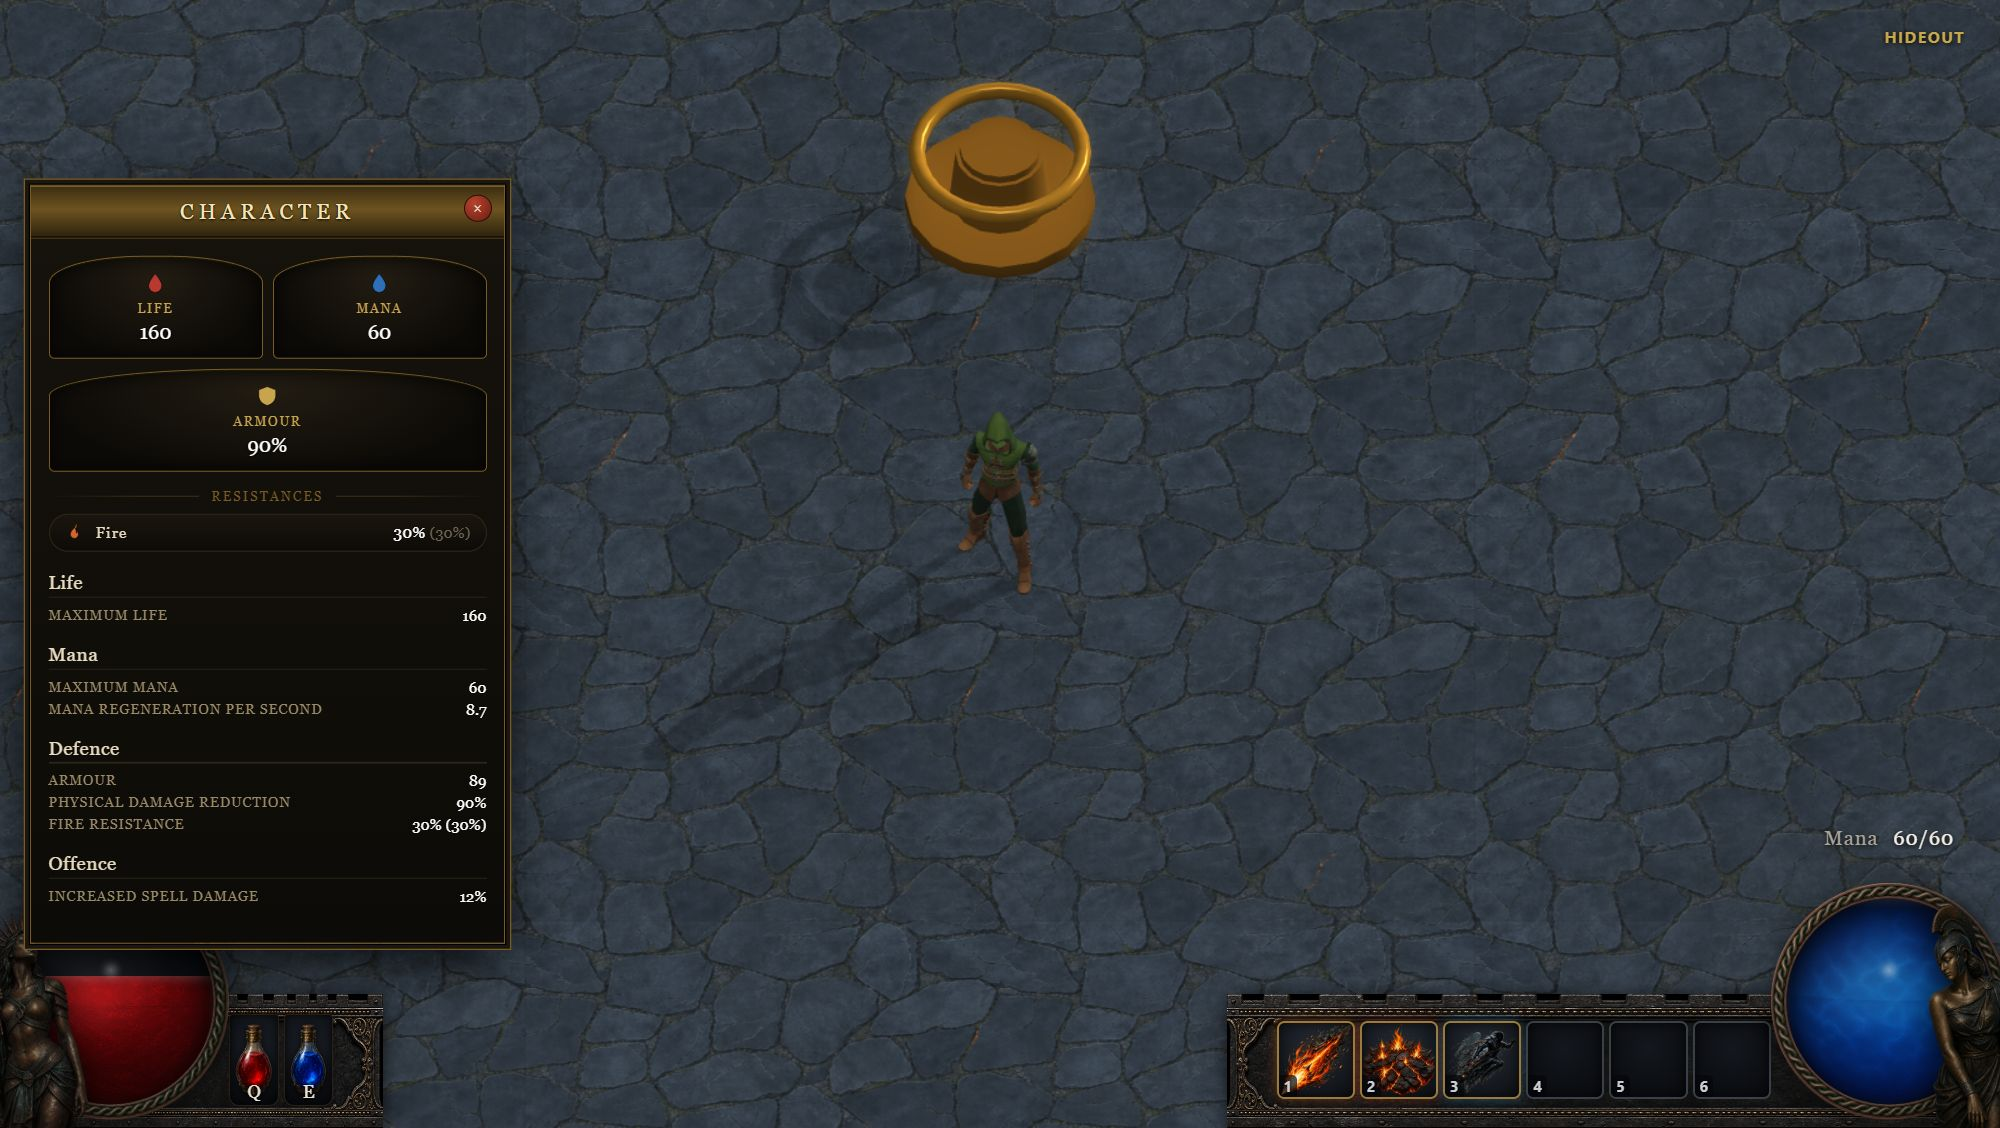
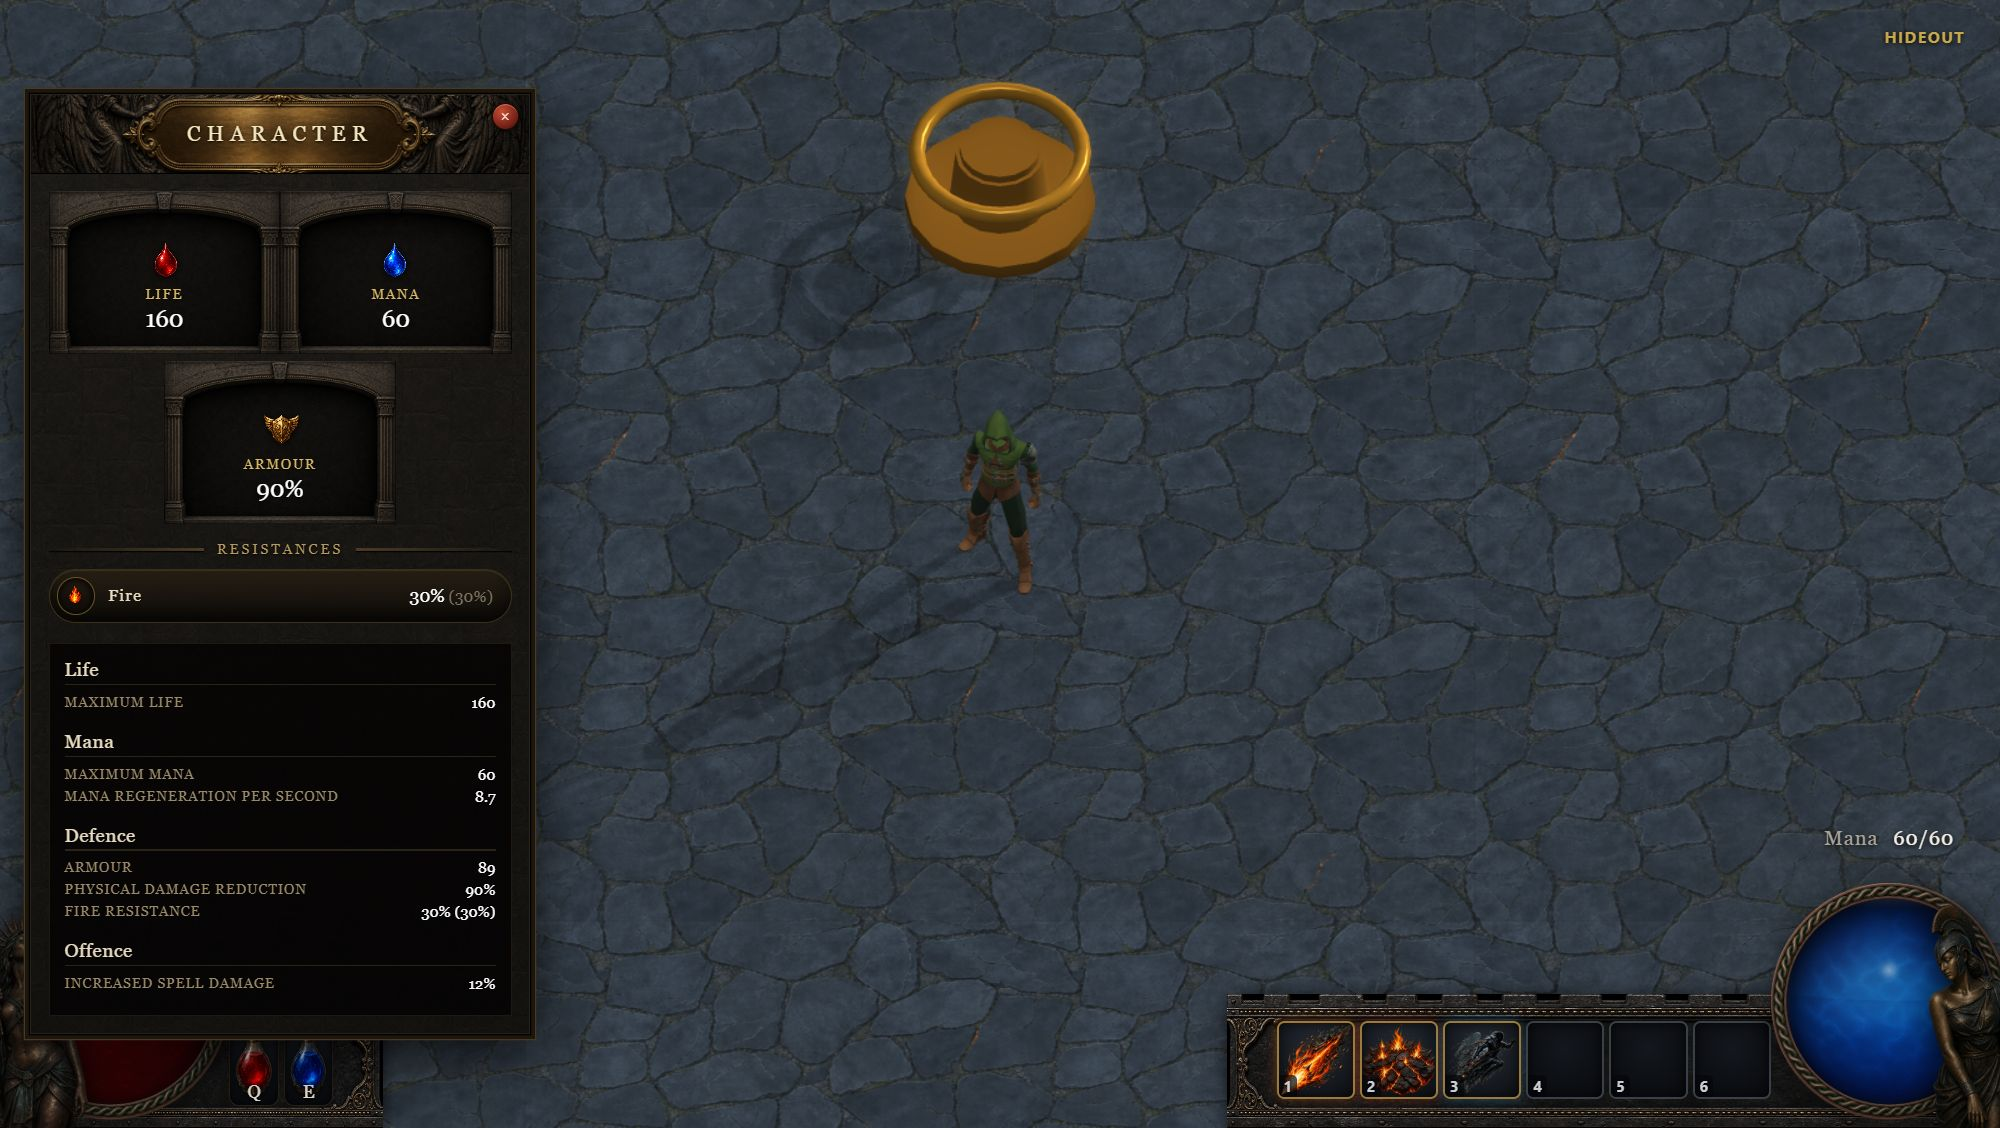
feat(hud): dress the character sheet in generated stone and gold
The sheet had the reference's layout but not its substance: a CSS
gradient stack standing in for carved stone, inline SVG glyphs standing
in for painted icons. Almost all of the weight in
poe2-screenshots/character-stats.png comes from that carving, so the
approximation read flat next to it.

Four generated assets under public/textures/ui: a header band with
bas-relief and an empty gold cartouche (the title stays live text so it
renders crisp), a seamless dark stone tile for the panel body, a wide
shallow arch niche, and one 2x2 sheet holding the life, mana, armour
and fire icons.

Niches in a band now abut so their pilasters read as one carved plate
instead of floating tiles, the stone overlay lightened so the texture
survives behind the text, and the panel's scrollbar is hidden since the
reference has no counterpart for it.

The first niche render was a tall square arch and is dropped rather than
kept: it is superseded, unused, and public/ ships everything in it.

Changed region(s): [[0.0, 0.0621, 0.279, 0.9619], [0.186, 0.3723, 0.217, 0.4344], [0.062, 0.4034, 0.093, 0.4344]]

diff --git a/apps/web/src/hud/CharacterPanel.tsx b/apps/web/src/hud/CharacterPanel.tsx
@@ -1,11 +1,13 @@
 import React from "react";
 import type { Snapshot } from "@exiled/protocol";
 import { RES_CAP } from "@exiled/rules";
-import { SERIF, GOLD, GOLD_DIM, PARCHMENT } from "./InventoryPanel";
+import { SERIF, GOLD_DIM, PARCHMENT } from "./InventoryPanel";
 
-// PoE2's character sheet (C), matched to poe2-screenshots/character-stats.png:
-// a gold cartouche header, arched stone niches for the resource and defence
-// totals, a resistance pill band, then a scrolling label/value detail list.
+// PoE2's character sheet (C), matched to poe2-screenshots/character-stats.png.
+// The stone, the carved header band with its gold cartouche, the arch niches
+// and the stat icons are generated art under /textures/ui/char_*.png rather
+// than CSS approximations, because the reference's weight comes almost entirely
+// from that carving and no gradient stack was going to stand in for it.
 //
 // The reference's identity row (portrait, "Level 80 Invoker", league) and its
 // Strength/Dexterity/Intelligence plate are left out, as are the Energy Shield,
@@ -17,30 +19,58 @@ import { SERIF, GOLD, GOLD_DIM, PARCHMENT } from "./InventoryPanel";
 // sheet and onto skill tooltips, but we have no skill tooltip yet, so a wand's
 // spell damage would otherwise be invisible everywhere.
 
-const PANEL_W = 380;
-const STONE = "linear-gradient(180deg,#16130d 0%,#0d0b07 100%)";
+const PANEL_W = 400;
+/** char_niche_v2.png is 320x224; a niche keeps that ratio or the arch shears. */
+const NICHE_W = (PANEL_W - 28) / 2;
+const NICHE_H = Math.round((NICHE_W * 224) / 320);
+/** char_header_v1.png is 1024x160, and the band has to keep that ratio or the relief shears. */
+const HEADER_H = Math.round((PANEL_W * 160) / 1024);
 
-/** Arched niche interior: recessed, warm, lit slightly from above like the carved stone in the shot. */
-const NICHE: React.CSSProperties = {
-  flex: 1,
-  display: "flex",
-  flexDirection: "column",
-  alignItems: "center",
-  gap: 4,
-  padding: "10px 4px 12px",
-  background: "radial-gradient(ellipse at 50% 20%, #221c12 0%, #0c0a07 75%)",
-  border: `1px solid ${GOLD_DIM}`,
-  // Round the top corners hard and the bottom barely, which reads as an arch.
-  borderRadius: "44% 44% 4px 4px / 26% 26% 4px 4px",
-  boxShadow: "inset 0 0 14px rgba(0,0,0,0.8), inset 0 1px 0 rgba(200,164,77,0.10)",
-};
+/**
+ * The four stat icons ship as one 2x2 sheet, so a quadrant is picked by moving a
+ * 200%-scaled background rather than by loading four files.
+ */
+const ICON_QUADRANT = { life: "0% 0%", mana: "100% 0%", armour: "0% 100%", fire: "100% 100%" } as const;
 
+function Icon({ of, size = 38 }: { of: keyof typeof ICON_QUADRANT; size?: number }) {
+  return (
+    <span
+      aria-hidden="true"
+      style={{
+        width: size, height: size, flex: "none",
+        backgroundImage: "url(/textures/ui/char_icons_v1.png)",
+        backgroundSize: "200% 200%",
+        backgroundPosition: ICON_QUADRANT[of],
+        filter: "drop-shadow(0 1px 3px rgba(0,0,0,0.9))",
+      }}
+    />
+  );
+}
+
+/**
+ * One arched niche. The art's recess does not fill its frame, so the label and
+ * value are inset by the fractions of char_niche_v1.png that the carved stone
+ * occupies — percentages, so the niche can be resized without re-measuring.
+ */
 function Niche({ id, label, value, icon }: { id: string; label: string; value: string; icon: React.ReactNode }) {
   return (
-    <div data-testid={`char-stat-${id}`} style={NICHE}>
-      <div style={{ height: 22, display: "flex", alignItems: "center" }}>{icon}</div>
-      <span style={{ color: GOLD, fontSize: 10, letterSpacing: 1.6, textTransform: "uppercase" }}>{label}</span>
-      <span style={{ color: "#fff", fontSize: 16, textShadow: "0 1px 3px #000" }}>{value}</span>
+    <div
+      data-testid={`char-stat-${id}`}
+      style={{
+        width: NICHE_W, height: NICHE_H,
+        backgroundImage: "url(/textures/ui/char_niche_v2.png)",
+        backgroundSize: "100% 100%",
+        display: "flex", flexDirection: "column", alignItems: "center", justifyContent: "center",
+        gap: 2,
+        padding: "14% 11% 9%",
+        boxSizing: "border-box",
+      }}
+    >
+      {icon}
+      <span style={{ color: "#d8b866", fontSize: 11, letterSpacing: 1.4, textTransform: "uppercase", textShadow: "0 1px 2px #000" }}>
+        {label}
+      </span>
+      <span style={{ color: "#fff", fontSize: 19, textShadow: "0 1px 4px #000" }}>{value}</span>
     </div>
   );
 }
@@ -55,18 +85,30 @@ function ResPill({ id, label, pct, icon }: { id: string; label: string; pct: num
     <div
       data-testid={`char-res-${id}`}
       style={{
-        display: "flex", alignItems: "center", gap: 10,
-        padding: "7px 12px",
-        background: "linear-gradient(180deg,#1a150e,#0d0b07)",
-        border: "1px solid #2f2716",
-        borderRadius: 20,
+        display: "flex", alignItems: "center", gap: 11,
+        padding: "6px 14px 6px 6px",
+        background: "linear-gradient(180deg,rgba(38,31,20,0.92),rgba(12,10,7,0.92))",
+        border: "1px solid #3a2f1b",
+        borderRadius: 22,
+        boxShadow: "inset 0 1px 0 rgba(200,164,77,0.12), inset 0 -6px 12px rgba(0,0,0,0.55)",
       }}
     >
-      <span style={{ display: "flex", alignItems: "center" }}>{icon}</span>
-      <span style={{ color: PARCHMENT, fontSize: 12, letterSpacing: 1, flex: 1 }}>{label}</span>
-      <span style={{ color: "#fff", fontSize: 13 }}>
+      {/* Medallion bezel: the reference sets each element icon in a rimmed disc. */}
+      <span
+        style={{
+          width: 30, height: 30, borderRadius: "50%",
+          display: "flex", alignItems: "center", justifyContent: "center",
+          background: "radial-gradient(circle at 50% 35%, #241d12, #080705)",
+          border: "1px solid #6a5222",
+          boxShadow: "inset 0 0 8px rgba(0,0,0,0.9)",
+        }}
+      >
+        {icon}
+      </span>
+      <span style={{ color: PARCHMENT, fontSize: 13, letterSpacing: 1, flex: 1 }}>{label}</span>
+      <span style={{ color: "#fff", fontSize: 14 }}>
         {Math.min(pct, RES_CAP)}%{" "}
-        <span style={{ color: "#6f6754", fontSize: 12 }}>({pct}%)</span>
+        <span style={{ color: "#7d7360", fontSize: 13 }}>({pct}%)</span>
       </span>
     </div>
   );
@@ -87,17 +129,17 @@ function DetailSection({ title, rows }: { title: string; rows: [string, string][
   );
 }
 
-// Painted icons like the reference's would need art we do not ship, so these are
-// flat vector glyphs in the same tints: red life drop, blue mana drop, gold
-// crest for armour, orange flame for fire.
-const Glyph = ({ d, fill, size = 18 }: { d: string; fill: string; size?: number }) => (
-  <svg width={size} height={size} viewBox="0 0 24 24" aria-hidden="true">
-    <path d={d} fill={fill} stroke="rgba(0,0,0,0.6)" strokeWidth="0.7" />
-  </svg>
-);
-const DROP = "M12 2C12 2 5 10.2 5 14.6 5 18.7 8.1 22 12 22s7-3.3 7-7.4C19 10.2 12 2 12 2z";
-const CREST = "M12 2 3 5.5v6.2c0 5 3.8 9.2 9 10.3 5.2-1.1 9-5.3 9-10.3V5.5L12 2z";
-const FLAME = "M13.5 1.5c.6 3.6-1.4 5-2.9 6.6C9 9.8 7 11.6 7 15a5 5 0 0 0 10 0c0-1.7-.6-3-1.4-4.2.2 1.3-.4 2.4-1.3 2.7.6-2.1-.2-4.6-1.4-6.2 1.4-.3 2.3-1.4 2.3-2.9 0-1.4-.7-2.6-1.7-2.9z";
+/** The carved rail the reference sets its "Resistances" heading into. */
+function BandLabel({ children }: { children: React.ReactNode }) {
+  const rule = (dir: string) => ({ flex: 1, height: 2, background: `linear-gradient(${dir}, transparent, #4a3c22)`, boxShadow: "0 1px 0 rgba(0,0,0,0.8)" });
+  return (
+    <div style={{ display: "flex", alignItems: "center", gap: 10, margin: "14px 0 9px" }}>
+      <div style={rule("90deg")} />
+      <span style={{ color: "#b39a5e", fontSize: 11, letterSpacing: 2.4, textTransform: "uppercase", textShadow: "0 1px 2px #000" }}>{children}</span>
+      <div style={rule("270deg")} />
+    </div>
+  );
+}
 
 export function CharacterPanel({ player, onClose }: { player: Snapshot["player"]; onClose: () => void }) {
   const s = player.stats;
@@ -113,41 +155,52 @@ export function CharacterPanel({ player, onClose }: { player: Snapshot["player"]
         width: PANEL_W,
         maxHeight: "92vh",
         overflowY: "auto",
-        // Above the HUD (zIndex 3 in Hud.tsx), or the globes and the life
-        // readout paint straight over the panel's lower rows.
-        zIndex: 4,
         // No full-screen backdrop: PoE2 keeps the character sheet and the
         // inventory open side by side, so this must not swallow the world.
         pointerEvents: "auto",
-        background: STONE,
-        border: `1px solid ${GOLD_DIM}`,
-        boxShadow: `0 0 0 1px #000, 0 0 0 4px #1b1710, 0 0 0 5px ${GOLD_DIM}, 0 14px 48px rgba(0,0,0,0.85)`,
+        // Above the HUD (zIndex 3 in Hud.tsx), or the globes and the life
+        // readout paint straight over the panel's lower rows.
+        zIndex: 4,
+        background: "#0b0906",
+        border: "1px solid #2a2216",
+        boxShadow: "0 0 0 1px #000, 0 0 0 4px #1b1710, 0 0 0 5px #4a3a1c, 0 14px 48px rgba(0,0,0,0.85)",
         fontFamily: SERIF,
         color: PARCHMENT,
       }}
     >
-      {/* Gold cartouche header */}
+      {/* A default scrollbar cutting down the stone has no counterpart in the
+          reference, and this is a pseudo-element, so it cannot be an inline style. */}
+      <style>{`[data-testid="character-panel"]{scrollbar-width:none}[data-testid="character-panel"]::-webkit-scrollbar{display:none}`}</style>
+
+      {/* Carved header band; the cartouche in the art is empty so the title stays crisp text. */}
       <div
         style={{
-          position: "sticky", top: 0, zIndex: 2,
-          padding: "11px 0",
-          textAlign: "center",
-          background: "linear-gradient(180deg,#3a2c12,#6d5320 45%,#2c210d)",
-          borderBottom: `1px solid ${GOLD_DIM}`,
-          boxShadow: `inset 0 1px 0 ${GOLD}66, inset 0 -1px 0 #000`,
+          position: "relative",
+          height: HEADER_H,
+          backgroundImage: "url(/textures/ui/char_header_v1.png)",
+          backgroundSize: "100% 100%",
+          display: "flex", alignItems: "center", justifyContent: "center",
+          borderBottom: "1px solid #000",
         }}
       >
-        <span style={{ fontSize: 17, letterSpacing: 4, textTransform: "uppercase", color: "#f3e4bd", textShadow: "0 1px 2px #000" }}>
+        <span
+          style={{
+            fontSize: 17, letterSpacing: 5, textTransform: "uppercase",
+            color: "#f6e6bb",
+            textShadow: "0 1px 2px #000, 0 0 10px rgba(0,0,0,0.8)",
+          }}
+        >
           Character
         </span>
         <button
           data-testid="character-close"
           onClick={onClose}
           style={{
-            position: "absolute", top: 7, right: 10,
+            position: "absolute", top: 6, right: 8,
             width: 22, height: 22, borderRadius: "50%",
-            background: "radial-gradient(circle at 35% 30%, #b5442e, #6d1d13)",
-            border: "1px solid #2b0d08", color: "#f0d3c4",
+            background: "radial-gradient(circle at 35% 30%, #c74e35, #6d1d13 70%, #35100a)",
+            border: "1px solid #1d0906", color: "#f7ddd0",
+            boxShadow: "0 1px 4px rgba(0,0,0,0.9), inset 0 1px 0 rgba(255,180,150,0.4)",
             cursor: "pointer", fontSize: 13, lineHeight: 1, padding: 0,
           }}
         >
@@ -155,23 +208,32 @@ export function CharacterPanel({ player, onClose }: { player: Snapshot["player"]
         </button>
       </div>
 
-      <div style={{ padding: 14 }}>
-        <div style={{ display: "flex", gap: 8 }}>
-          <Niche id="life" label="Life" value={String(Math.round(player.maxLife))} icon={<Glyph d={DROP} fill="#b8392f" />} />
-          <Niche id="mana" label="Mana" value={String(Math.round(player.maxMana))} icon={<Glyph d={DROP} fill="#2f6fb8" />} />
+      {/* Stone body. The overlay keeps the texture from fighting the text on top of it. */}
+      <div
+        style={{
+          padding: 14,
+          backgroundImage:
+            "linear-gradient(180deg, rgba(8,7,5,0.45), rgba(8,7,5,0.68)), url(/textures/ui/char_stone_v1.png)",
+          backgroundSize: "auto, 256px 256px",
+        }}
+      >
+        {/* Niches in a band abut, so their pilasters read as one carved plate rather than floating tiles. */}
+        <div style={{ display: "flex", justifyContent: "center" }}>
+          <Niche id="life" label="Life" value={String(Math.round(player.maxLife))} icon={<Icon of="life" />} />
+          <Niche id="mana" label="Mana" value={String(Math.round(player.maxMana))} icon={<Icon of="mana" />} />
         </div>
-        <div style={{ display: "flex", gap: 8, marginTop: 8 }}>
-          <Niche id="armour" label="Armour" value={`${s.armourPct}%`} icon={<Glyph d={CREST} fill="#c8a44d" />} />
+        <div style={{ display: "flex", marginTop: 6, justifyContent: "center" }}>
+          <Niche id="armour" label="Armour" value={`${s.armourPct}%`} icon={<Icon of="armour" />} />
         </div>
 
-        <div style={{ display: "flex", alignItems: "center", gap: 10, margin: "14px 0 8px" }}>
-          <div style={{ flex: 1, height: 1, background: "linear-gradient(90deg, transparent, #3b2f18 60%)" }} />
-          <span style={{ color: GOLD_DIM, fontSize: 10, letterSpacing: 2, textTransform: "uppercase" }}>Resistances</span>
-          <div style={{ flex: 1, height: 1, background: "linear-gradient(90deg, #3b2f18 40%, transparent)" }} />
-        </div>
-        <ResPill id="fire" label="Fire" pct={s.fireResPct} icon={<Glyph d={FLAME} fill="#d1662a" size={15} />} />
+        <BandLabel>Resistances</BandLabel>
+        <ResPill id="fire" label="Fire" pct={s.fireResPct} icon={<Icon of="fire" size={20} />} />
 
-        <div data-testid="char-detail" style={{ marginTop: 16 }}>
+        {/* The reference drops the stone for a flat dark list at the bottom. */}
+        <div
+          data-testid="char-detail"
+          style={{ marginTop: 16, padding: "12px 12px 2px", background: "rgba(4,3,2,0.82)", border: "1px solid #1e1810" }}
+        >
           <DetailSection title="Life" rows={[["Maximum Life", String(Math.round(player.maxLife))]]} />
           <DetailSection
             title="Mana"

diff --git a/devlog/README.md b/devlog/README.md
@@ -110,7 +110,7 @@ The orbs stop being CSS.
 </tr>
 <tr>
 <td width="33%"><img src="screenshots/2026-07-25-gear-stats-apply.jpeg" alt="Gear stats reach the player" width="100%"><br><sub><b>Mods stop being text</b> - an affix was a tooltip line and nothing else. Every implicit and affix on an equipped item now folds into the player: maximum life and mana, armour (flat roll first, then the percent increase on the sum, which is PoE's order), fire resistance, mana regeneration rate, and increased spell damage on the hit itself. Cinderveil's +60 life grows the pool without filling it, so the globe reads 100/160 and leaves you to top it up, exactly as PoE does. Energy shield, the other three resistances, attributes, crit and cast speed still roll and still render, but nothing in the sim can honour them yet, so they land as deliberate no-ops instead of being quietly mapped onto whichever stat is nearby.</sub></td>
-<td width="33%"><img src="screenshots/2026-07-25-character-sheet.jpeg" alt="Character sheet" width="100%"><br><sub><b>C opens the sheet</b> - armour and resistance totals existed but were invisible: only the two globes were legible. The character sheet takes PoE2's shape from the reference shot - gold cartouche header, arched stone niches, a resistance pill band, then a label/value detail list - and prints armour the way PoE2 does, as the share of a physical hit it actually stops rather than the raw rating. That number comes from the same curve damage resolution uses, so the sheet cannot drift from the fight. Fire resistance reads "30% (30%)", capped beside uncapped, which is where overcapping past 75 will show up. The identity row, the attribute plate, energy shield, spirit, evasion, block and three of the four resistances are left off: no mechanic backs them, and a row frozen at zero would advertise a system that is not there. Offence is a PoE1 borrow, since PoE2 moved those onto skill tooltips and we have no skill tooltip yet.</sub></td>
+<td width="33%"><img src="screenshots/2026-07-25-character-sheet.jpeg" alt="Character sheet" width="100%"><br><sub><b>C opens the sheet</b> - armour and resistance totals existed but were invisible: only the two globes were legible. The character sheet takes PoE2's shape from the reference shot - carved header band with a gold cartouche, wide arched stone niches, a resistance pill band, then a label/value detail list. The stone, the header relief, the arches and the four stat icons are generated art rather than CSS approximations, because the reference's weight comes almost entirely from that carving and no gradient stack was going to stand in for it. The sheet prints armour the way PoE2 does, as the share of a physical hit it actually stops rather than the raw rating. That number comes from the same curve damage resolution uses, so the sheet cannot drift from the fight. Fire resistance reads "30% (30%)", capped beside uncapped, which is where overcapping past 75 will show up. The identity row, the attribute plate, energy shield, spirit, evasion, block and three of the four resistances are left off: no mechanic backs them, and a row frozen at zero would advertise a system that is not there. Offence is a PoE1 borrow, since PoE2 moved those onto skill tooltips and we have no skill tooltip yet.</sub></td>
 <td width="33%"><img src="screenshots/2026-07-25-equipped-tooltip.jpeg" alt="Equipped item tooltip" width="100%"><br><sub><b>Worn gear can be read</b> - hovering a backpack cell showed a tooltip; hovering the thing you were actually wearing showed nothing, so the only way to check what a slot was granting was to take it off. Equipped slots now use the same tooltip, which is how the sheet's numbers can be traced back: Cinderveil's +60 life, +89 armour and +30% fire resistance are exactly the 160, 89 and 30% next door.</sub></td>
 </tr>
 </table>
